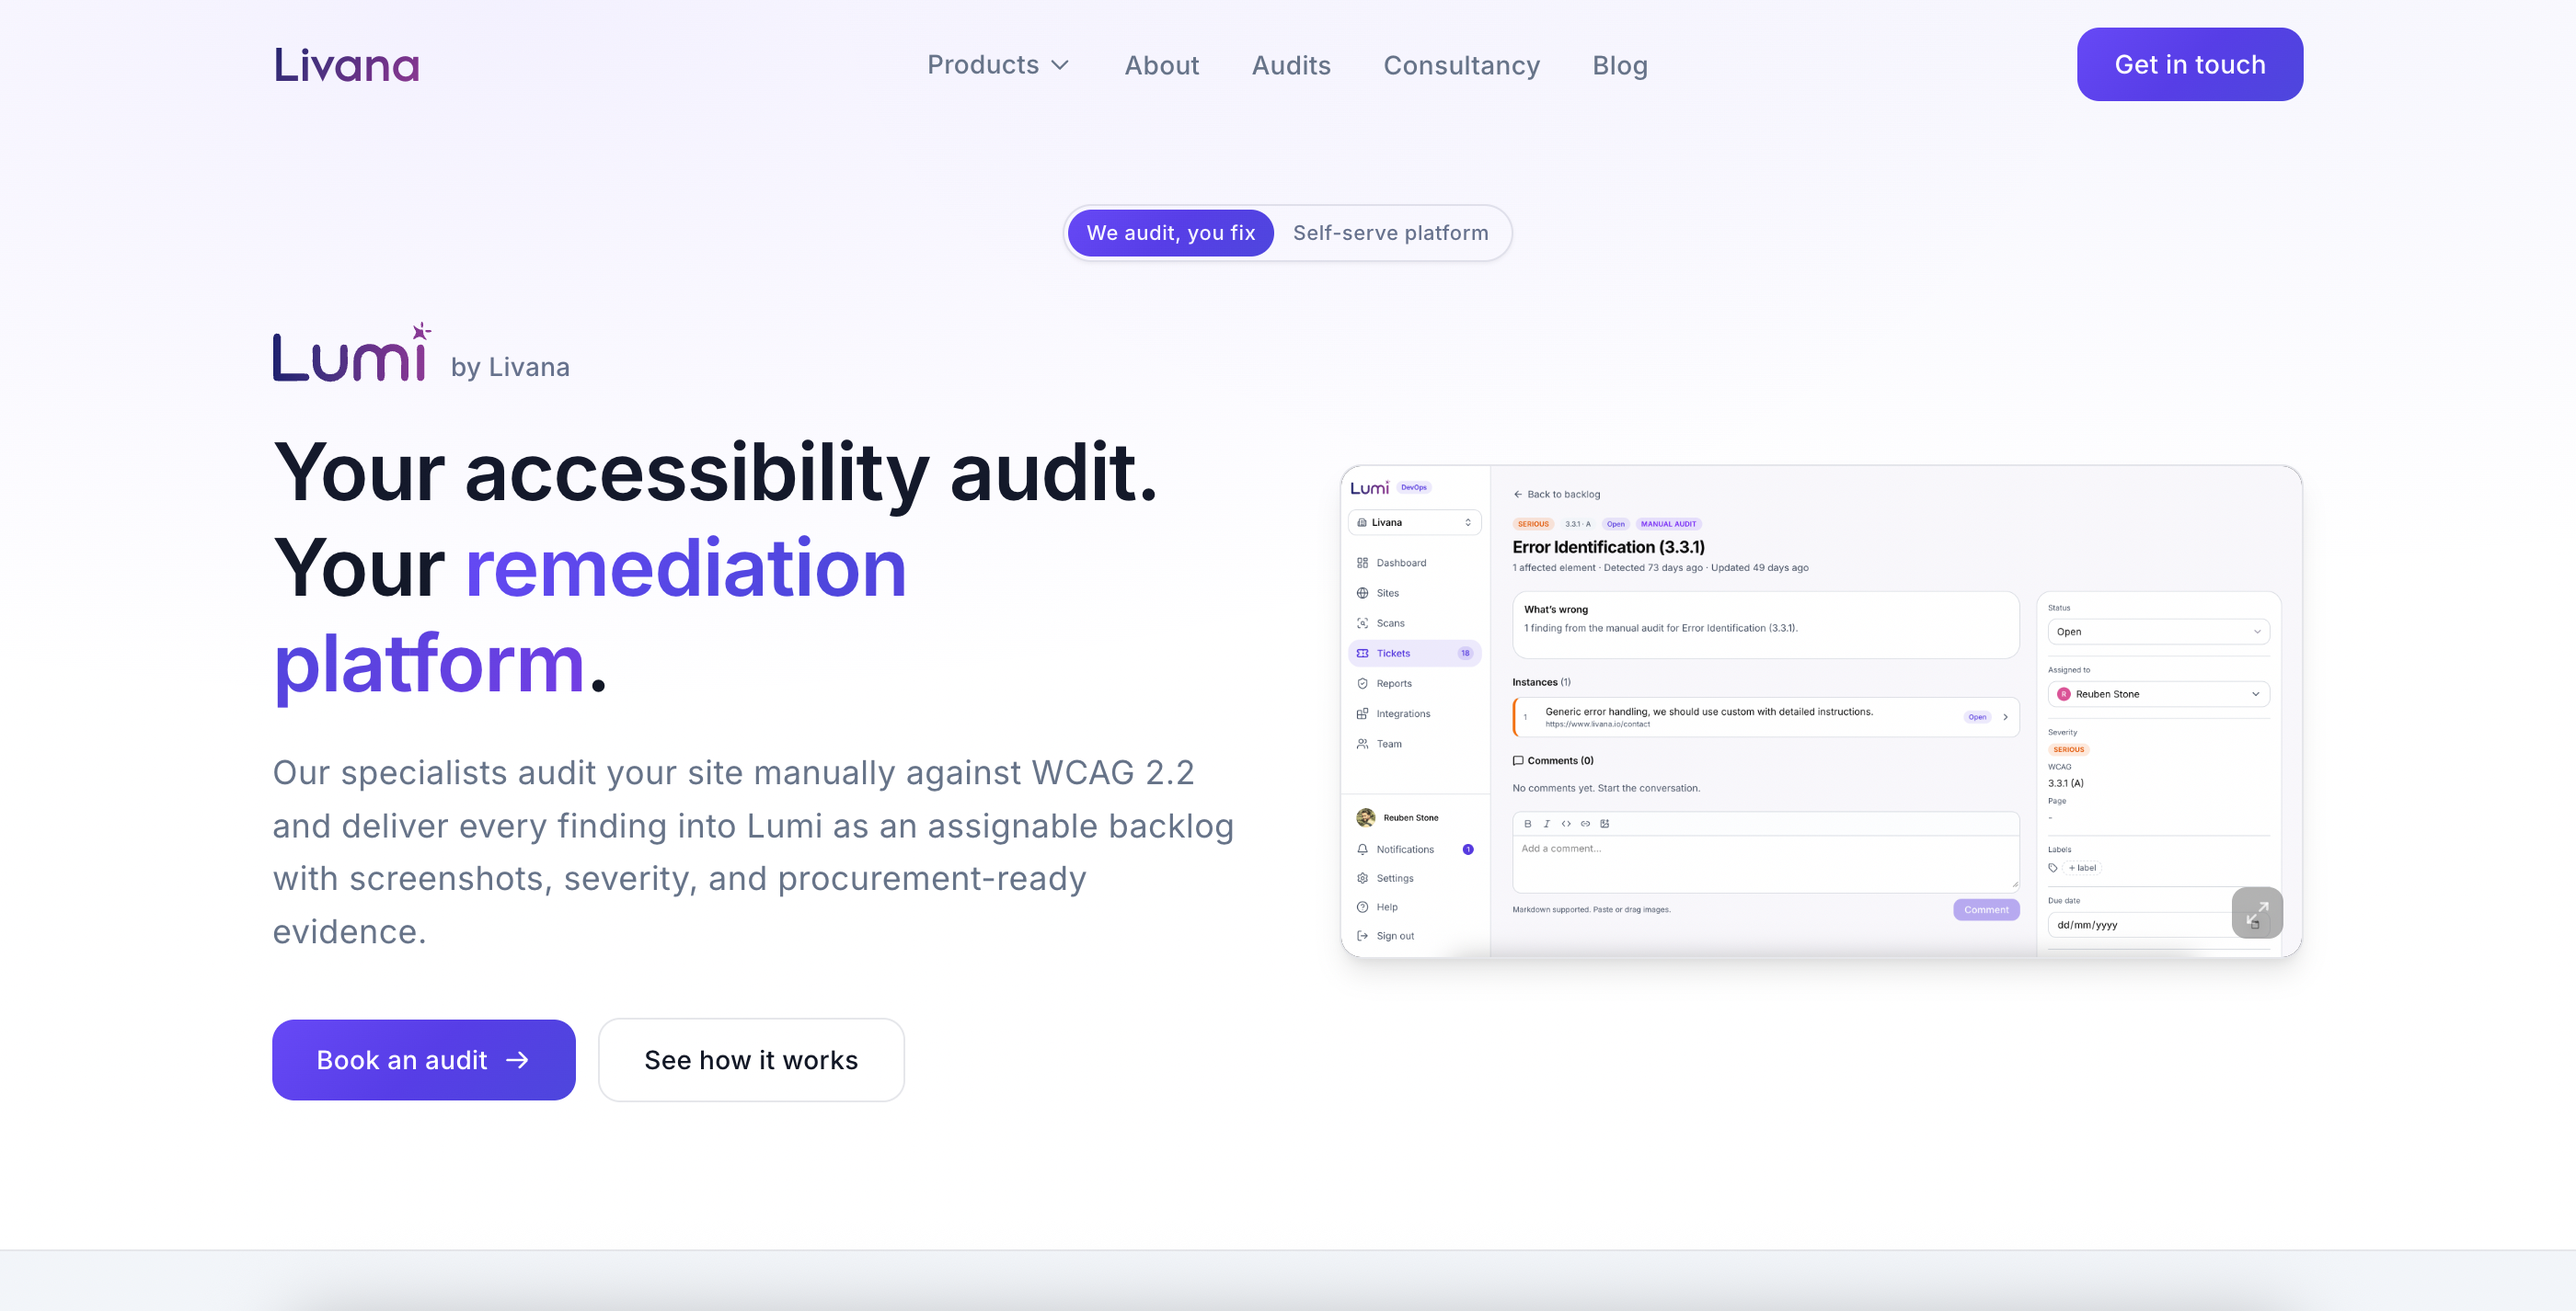
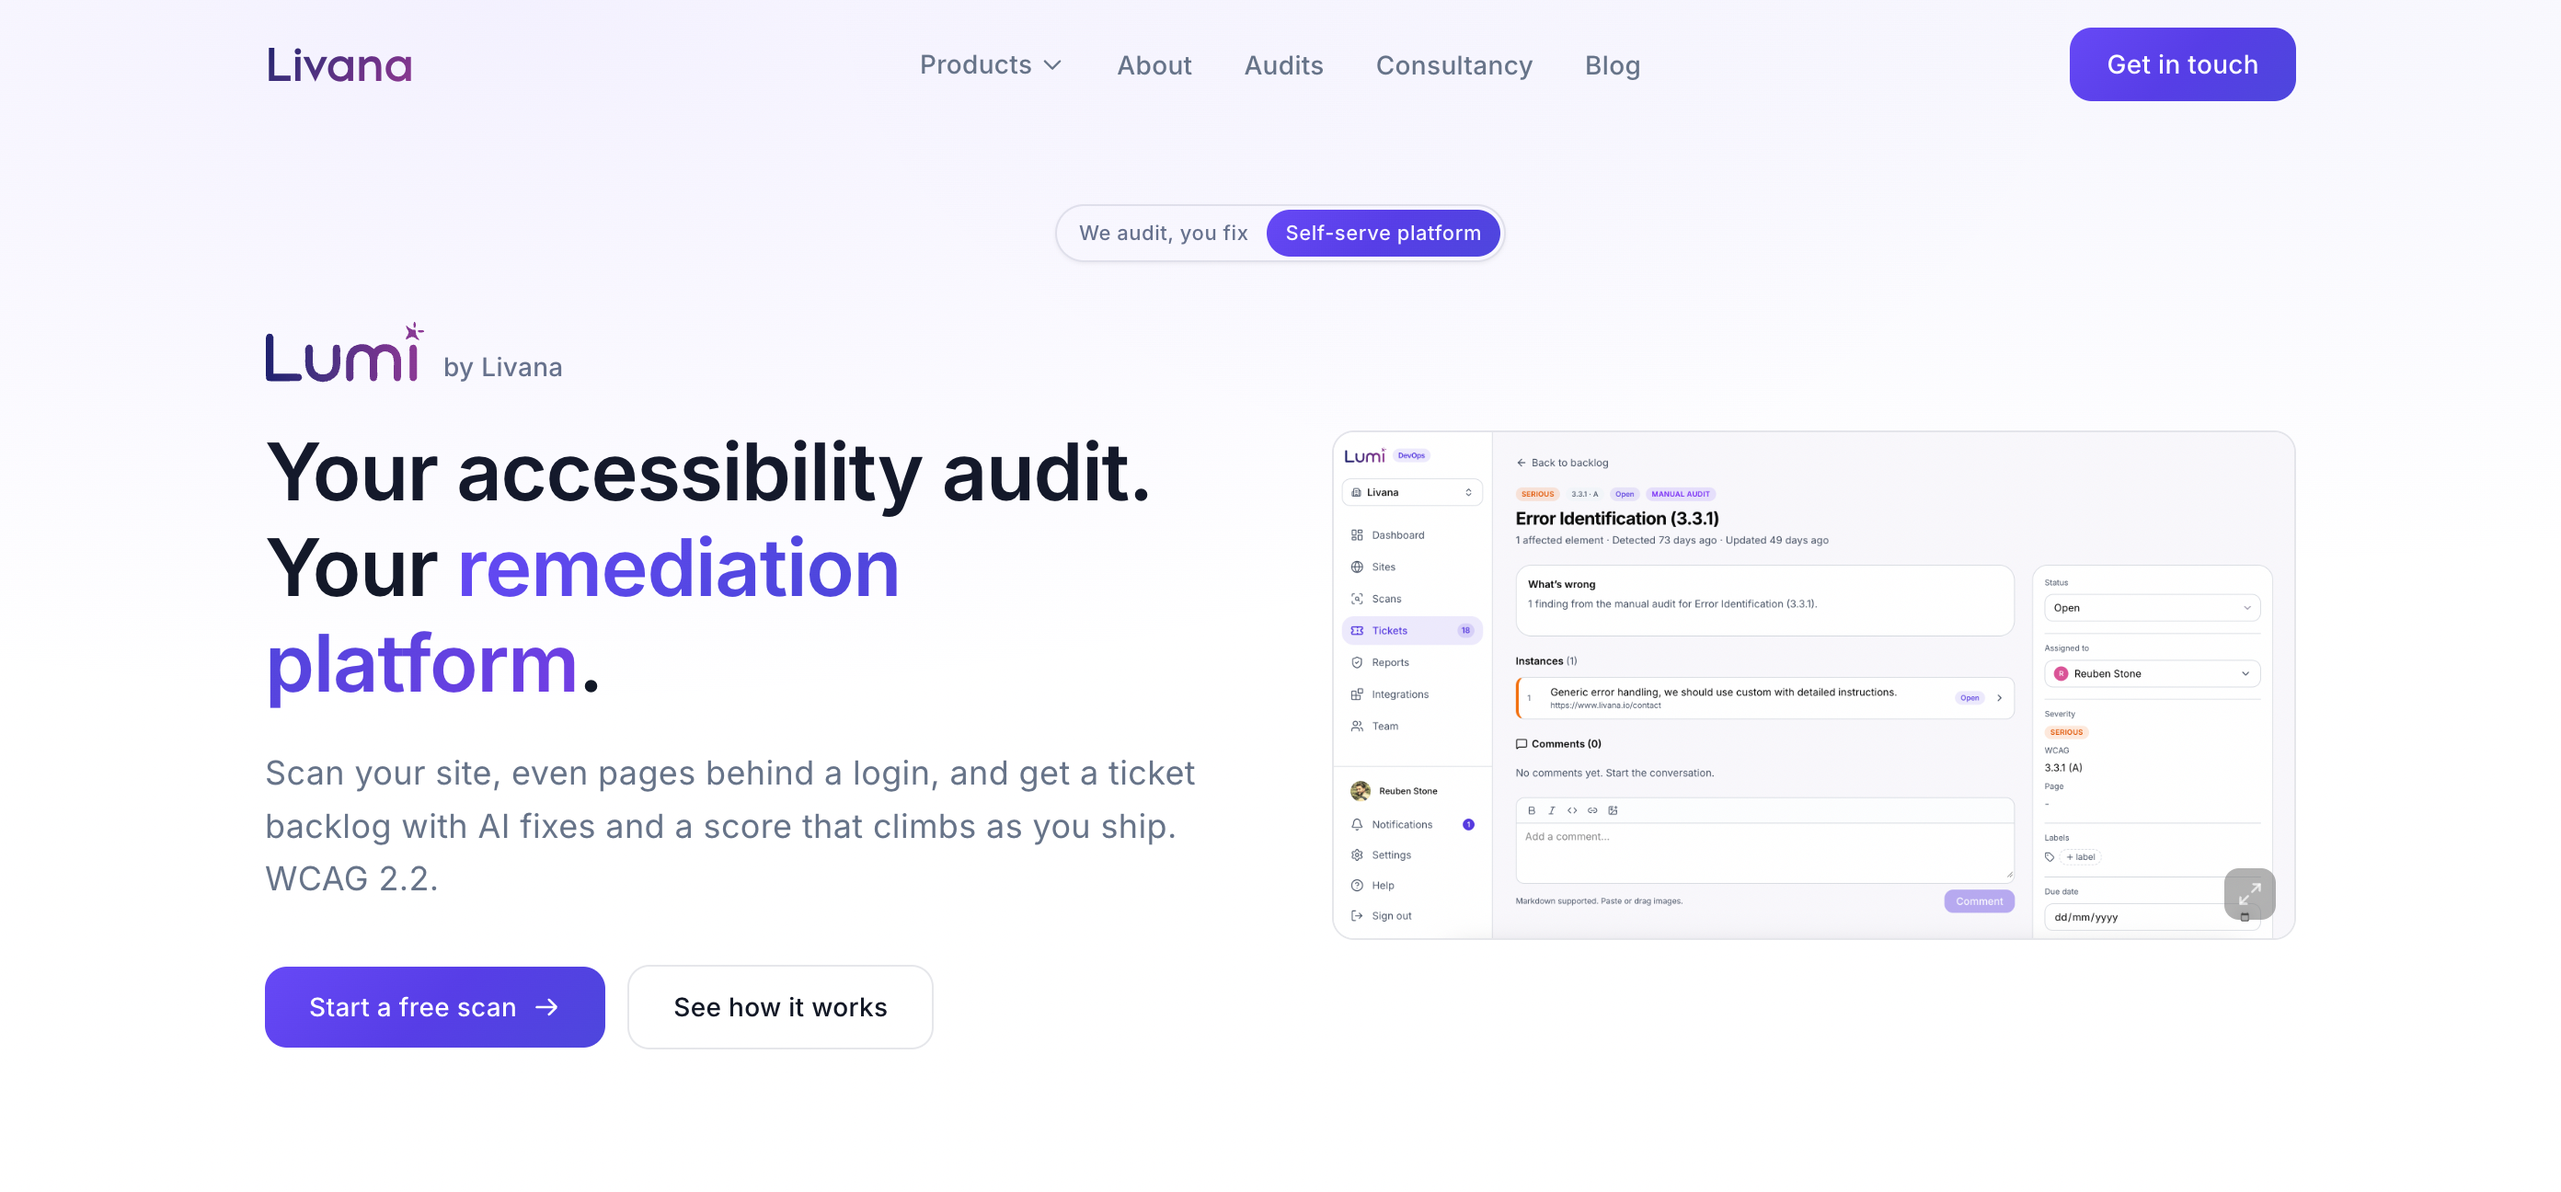
update Lumi landing screenshot with self-serve hero view

diff --git a/index.html b/index.html
@@ -617,7 +617,7 @@
           </div>
           <div class="col-2">
             <div style="border: 1px solid var(--border); border-radius: 6px; overflow: hidden;">
-              <img src="assets/lumi-landing.png" alt="Lumi by Livana landing page showing the managed audit hero with a ticket detail view of an Error Identification finding." width="2800" height="1426" loading="lazy" style="width:100%;height:auto;display:block;">
+              <img src="assets/lumi-landing.png" alt="Lumi by Livana landing page showing the managed audit hero with a ticket detail view of an Error Identification finding." width="2784" height="1296" loading="lazy" style="width:100%;height:auto;display:block;">
             </div>
             <div style="border: 1px solid var(--border); border-radius: 6px; overflow: hidden;">
               <img src="assets/lumi-tickets.png" alt="Lumi tickets view showing accessibility issues grouped by severity for reubenstone.co.uk." width="2772" height="1380" loading="lazy" style="width:100%;height:auto;display:block;">
